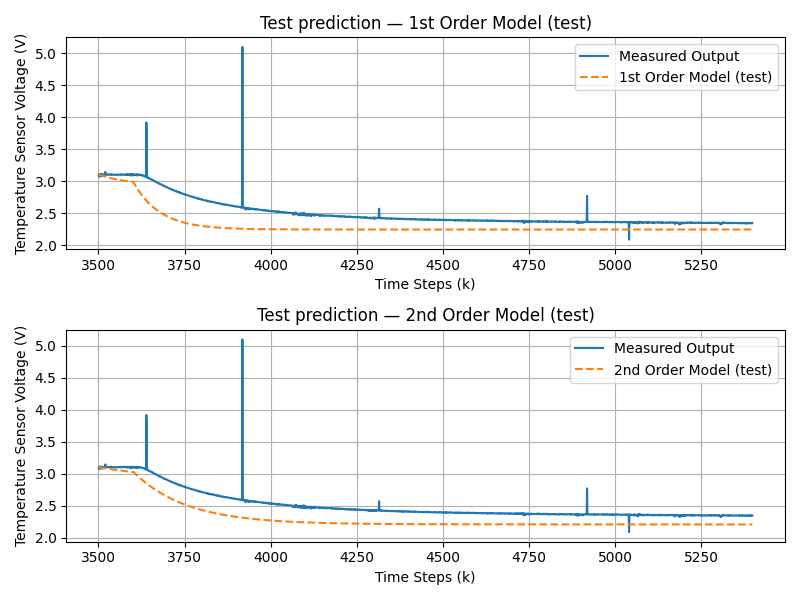
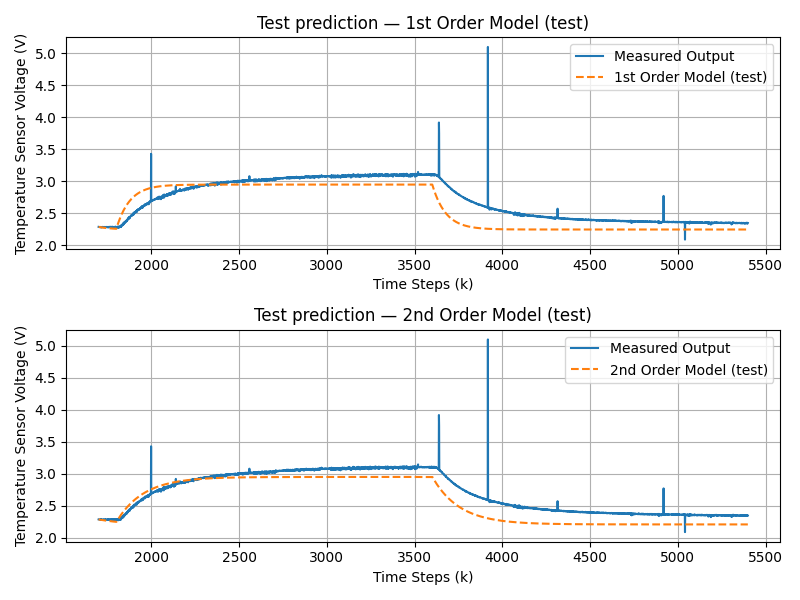
Refactor load_experiment_data function to return only relevant data and remove unused functions

diff --git a/torneira/identificacao/identifica.py b/torneira/identificacao/identifica.py
@@ -4,29 +4,25 @@ import matplotlib
 
 matplotlib.use("Agg")
 import matplotlib.pyplot as plt
-from scipy.optimize import lsq_linear
 
 
-def load_experiment_data(
-    file_path: str,
-) -> tuple[np.ndarray, np.ndarray, np.ndarray] | None:
-    """
-    Load experimental data from a CSV file.
+def load_experiment_data(file_path: str) -> tuple[np.ndarray, np.ndarray] | None:
+    """Load experimental data from a CSV file.
 
     Parameters:
-    file_path (str): The path to the CSV file containing the experimental data.
+        file_path: Path to the CSV file.
 
     Returns:
-    tuple[np.ndarray, np.ndarray, np.ndarray] | None: A tuple containing the loaded data as NumPy arrays, or None if an error occurs.
+        (u, y) as NumPy arrays, or None on failure.
 
-    Note: The CSV file is expected to have columns 'k', 'u', and 'y'.
+    Note: The CSV file is expected to have columns 'u' and 'y'.
     """
 
     try:
         data = pd.read_csv(file_path)
         # Strip whitespace from column headers (e.g., ' u' -> 'u')
         data.columns = data.columns.str.strip()
-        return data["k"].to_numpy(), data["u"].to_numpy(), data["y"].to_numpy()
+        return data["u"].to_numpy(), data["y"].to_numpy()
     except Exception as e:
         print(f"Error loading data: {e}")
         return None
@@ -69,35 +65,11 @@ def plot_data(k: np.ndarray, u: np.ndarray, y: np.ndarray, file_path: str) -> No
     plt.savefig(file_path)
 
 
-def trim_data(
-    k: np.ndarray, u: np.ndarray, y: np.ndarray, start: int, end: int
-) -> tuple[np.ndarray, np.ndarray, np.ndarray]:
-    """
-    Trim the experimental data to a specified range of time steps.
-
-    Parameters:
-    k (np.ndarray): The time steps of the experiment.
-    u (np.ndarray): The input signal values.
-    y (np.ndarray): The output signal values.
-    start (int): The starting time step for trimming.
-    end (int): The ending time step for trimming.
-
-    Returns:
-    tuple[np.ndarray, np.ndarray, np.ndarray]: A tuple containing the trimmed data as NumPy arrays.
-
-    Note: This function assumes that the time steps in 'k' are sorted and that 'start' and 'end' are valid indices within the range of 'k'.
-    """
-
-    mask = (k >= start) & (k <= end)
-    return k[mask], u[mask], y[mask]
-
-
 def fit_first_order(
     u: np.ndarray,
     y: np.ndarray,
     start: int | None = None,
     end: int | None = None,
-    enforce_negative_gain: bool = False,
 ) -> tuple[np.ndarray, np.ndarray, np.ndarray, np.ndarray]:
     """Fit a first-order discrete-time model to the data.
 
@@ -107,7 +79,6 @@ def fit_first_order(
     Parameters:
         start: The starting sample index (inclusive) to use for fitting.
         end: The ending sample index (inclusive) to use for fitting.
-        enforce_negative_gain: If True, force the input coefficient (b) to be non-positive.
 
     Returns:
         (params, k_fit, y_fit, y_pred_fit)
@@ -134,13 +105,7 @@ def fit_first_order(
 
     Phi = np.column_stack((y_k, u_k))
 
-    if enforce_negative_gain:
-        lb = [-np.inf, -np.inf]
-        ub = [np.inf, 0.0]
-        res = lsq_linear(Phi, y_k1, bounds=(lb, ub), lsmr_tol="auto")
-        theta = res.x
-    else:
-        theta, *_ = np.linalg.lstsq(Phi, y_k1, rcond=None)
+    theta, *_ = np.linalg.lstsq(Phi, y_k1, rcond=None)
 
     y_pred = np.empty_like(y_fit)
     y_pred[0] = y_fit[0]
@@ -151,7 +116,10 @@ def fit_first_order(
 
 
 def test_first_order(
-    theta: np.ndarray, u_after: np.ndarray, y_last_train: float
+    theta: np.ndarray,
+    u_after: np.ndarray,
+    y_last_train: float,
+    include_initial: bool = False,
 ) -> np.ndarray:
     """Test a first-order model by predicting forward from the end of the training interval.
 
@@ -159,9 +127,12 @@ def test_first_order(
         theta: Model parameters [a, b].
         u_after: Input values for the prediction interval (u[k] for k = k_train_end..k_test_end-1).
         y_last_train: The last measured output from the training interval.
+        include_initial: If True, include y_last_train as the first predicted point.
 
     Returns:
-        The predicted output for the test interval (y[k_train_end+1...]).
+        The predicted output for the test interval.
+        - If include_initial is False (default): returns y[k_train_end+1...].
+        - If include_initial is True: returns y[k_train_end...].
     """
 
     y_pred = np.empty(len(u_after) + 1)
@@ -169,7 +140,7 @@ def test_first_order(
     for i in range(1, len(y_pred)):
         y_pred[i] = theta[0] * y_pred[i - 1] + theta[1] * u_after[i - 1]
 
-    return y_pred[1:]
+    return y_pred if include_initial else y_pred[1:]
 
 
 def fit_second_order(
@@ -177,7 +148,6 @@ def fit_second_order(
     y: np.ndarray,
     start: int | None = None,
     end: int | None = None,
-    enforce_negative_gain: bool = False,
 ) -> tuple[np.ndarray, np.ndarray, np.ndarray, np.ndarray]:
     """Fit a second-order discrete-time model to the data.
 
@@ -187,7 +157,6 @@ def fit_second_order(
     Parameters:
         start: The starting sample index (inclusive) to use for fitting.
         end: The ending sample index (inclusive) to use for fitting.
-        enforce_negative_gain: If True, force the input coefficients (b1, b2) to be non-positive.
 
     Returns:
         (params, k_fit, y_fit, y_pred_fit)
@@ -216,13 +185,7 @@ def fit_second_order(
 
     Phi = np.column_stack((y_k1, y_k, u_k1, u_k))
 
-    if enforce_negative_gain:
-        lb = [-np.inf, -np.inf, -np.inf, -np.inf]
-        ub = [np.inf, np.inf, 0.0, 0.0]
-        res = lsq_linear(Phi, y_k2, bounds=(lb, ub), lsmr_tol="auto")
-        theta = res.x
-    else:
-        theta, *_ = np.linalg.lstsq(Phi, y_k2, rcond=None)
+    theta, *_ = np.linalg.lstsq(Phi, y_k2, rcond=None)
 
     y_pred = np.empty_like(y_fit)
     y_pred[0] = y_fit[0]
@@ -308,7 +271,7 @@ def main():
         print("Failed to load experiment data.")
         return
 
-    _, u, y = data
+    u, y = data
     k = np.arange(len(y))  # k is assumed to be sample index
 
     plot_data(k, u, y, "experimento.png")
@@ -327,28 +290,35 @@ def main():
     theta1, k_fit1, y_fit1, y_pred_fit1 = fit_first_order(
         u_centered, y_centered, start=train_start, end=train_end
     )
-    theta2, k_fit2, y_fit2, y_pred_fit2 = fit_second_order(
+    theta2, *_, y_pred_fit2 = fit_second_order(
         u_centered, y_centered, start=train_start, end=train_end
     )
 
     print("First-order model parameters (a, b):", theta1)
     print("Second-order model parameters (a1, a2, b1, b2):", theta2)
 
-    # Prepare the test set as everything after the training interval
-    k_test = np.arange(train_end + 1, len(y))
-    y_test = y_centered[train_end + 1 :]
+    # Prepare the test set: start from the training start and go to the end of the stream
+    k_test = np.arange(train_start, len(y))
+    y_test = y_centered[train_start:]
 
     if len(k_test) > 0:
-        # First-order: use u[train_end]..u[-2] to predict y[train_end+1]..y[-1]
-        u_after_1st = u_centered[train_end:-1]
-        y_pred_test_1 = test_first_order(theta1, u_after_1st, y_centered[train_end])
+        # First-order: predict from training start using u[train_start]..u[-2]
+        u_after_1st = u_centered[train_start:-1]
+        y_pred_test_1 = test_first_order(
+            theta1, u_after_1st, y_centered[train_start], include_initial=True
+        )
 
-        # Second-order: use u[train_end-1]..u[-2] to predict y[train_end+1]..y[-1]
-        u_after_2nd = u_centered[train_end - 1 : -1]
-        y_pred_test_2 = test_second_order(
-            theta2,
-            u_after_2nd,
-            (y_centered[train_end - 1], y_centered[train_end]),
+        # Second-order: predict from training start using u[train_start-1]..u[-2]
+        u_after_2nd = u_centered[train_start - 1 : -1]
+        y_pred_test_2 = np.concatenate(
+            (
+                [y_centered[train_start]],
+                test_second_order(
+                    theta2,
+                    u_after_2nd,
+                    (y_centered[train_start - 1], y_centered[train_start]),
+                ),
+            )
         )
     else:
         y_pred_test_1 = np.array([])
